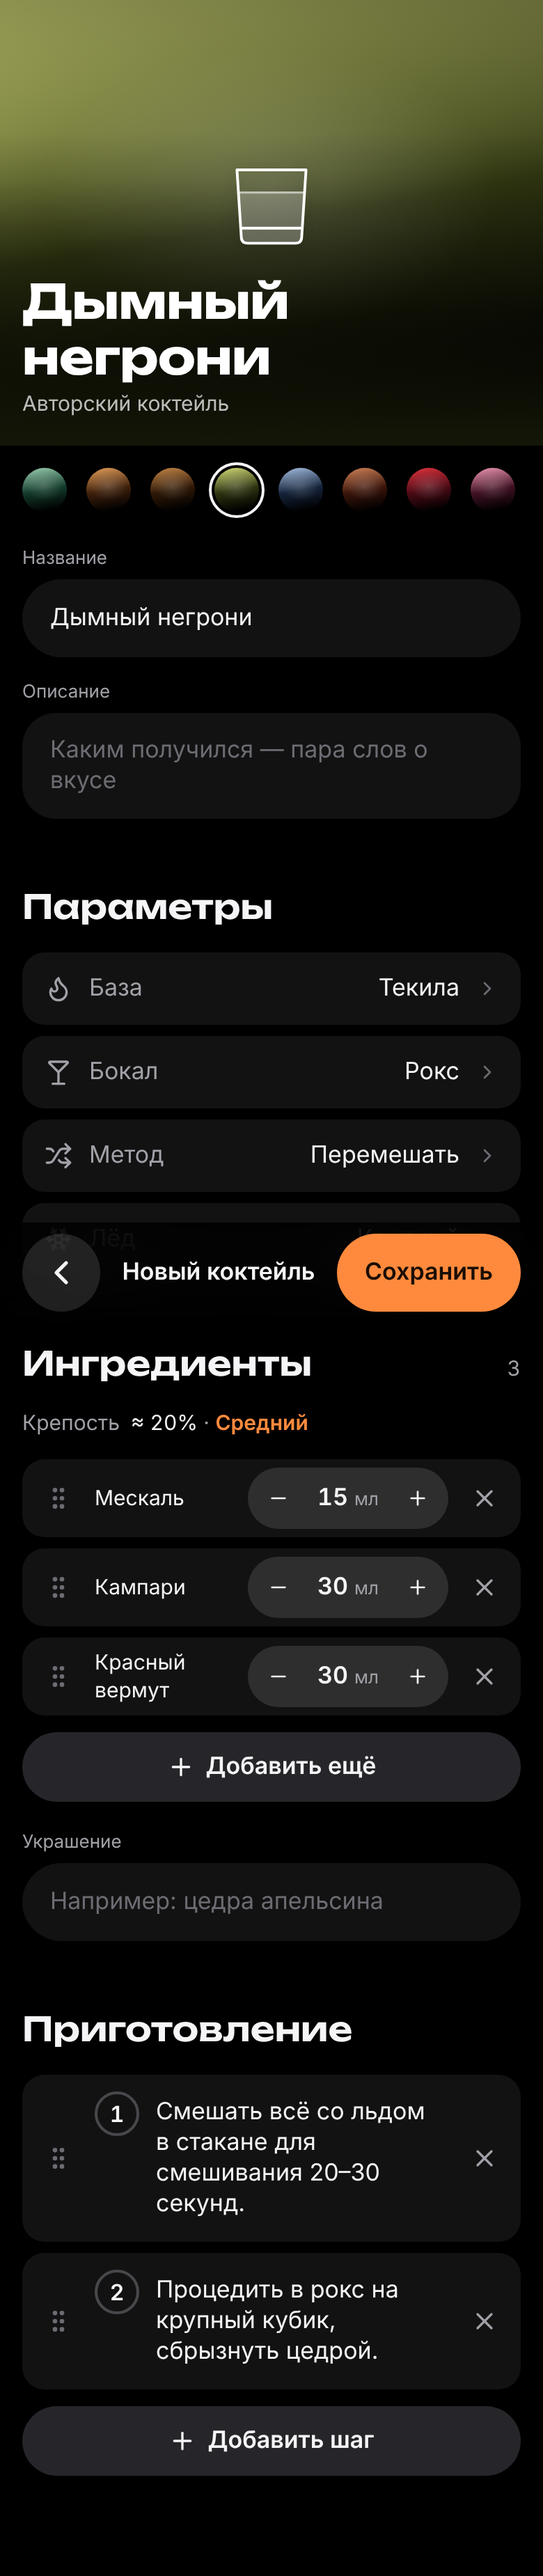
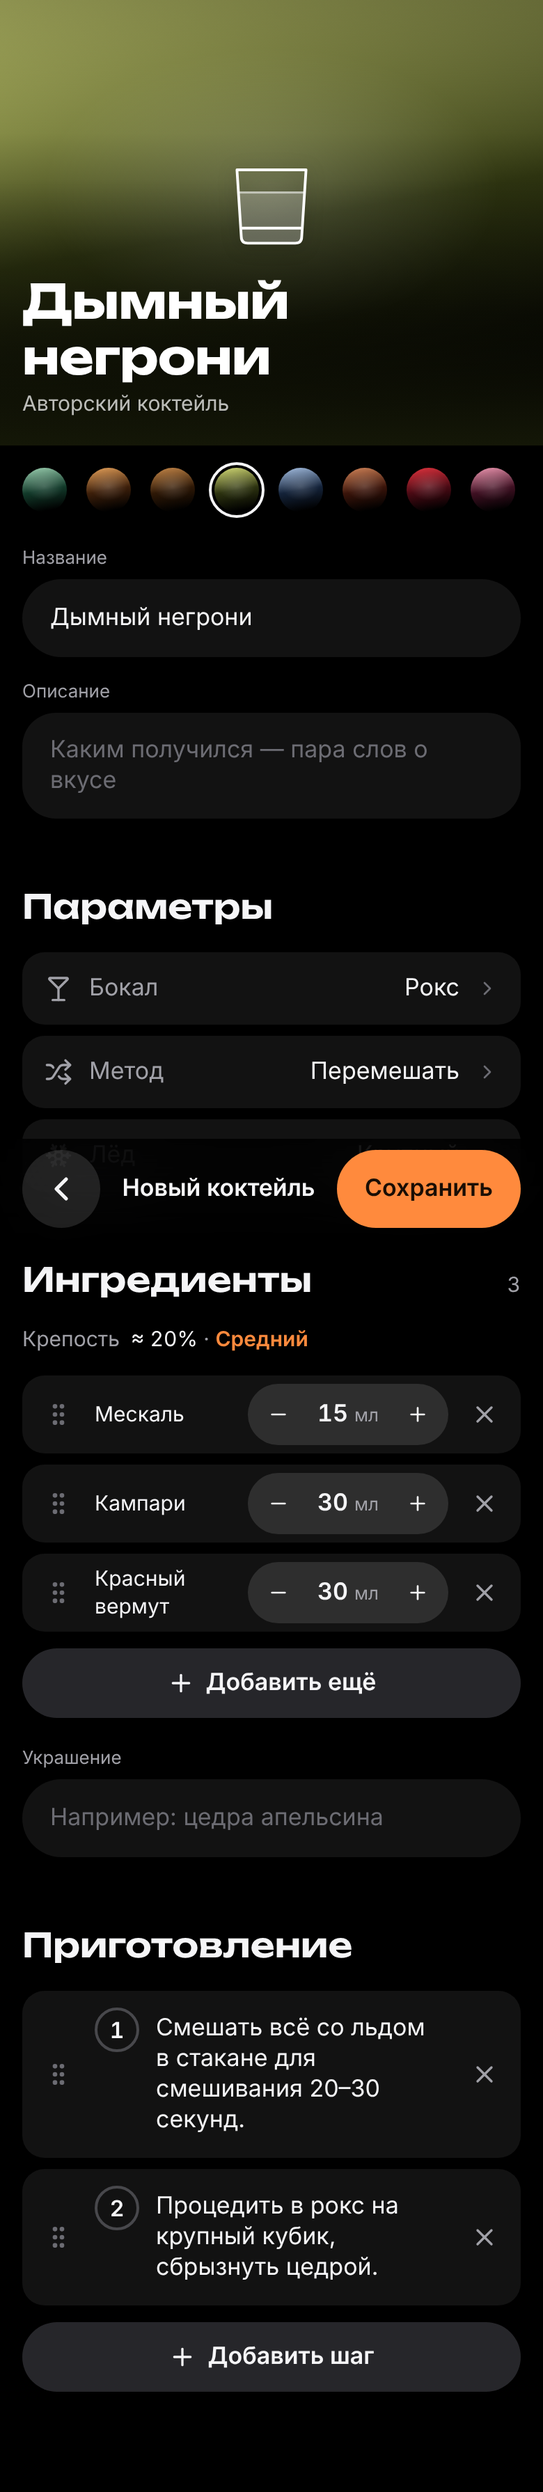
Редактор: база не выбирается — считается по составу
Claude-Session: https://claude.ai/code/session_01CTSLijoM8Di1TL7d1o52Nz

diff --git a/src/pages/CocktailEditorPage.tsx b/src/pages/CocktailEditorPage.tsx
@@ -16,10 +16,9 @@ import { IngredientPickSheet } from '../components/IngredientPickSheet';
 import { NotFoundPage } from './NotFoundPage';
 import { scaleIngredient } from '../lib/cocktails';
 
-type Param = 'base' | 'glass' | 'method' | 'ice';
+type Param = 'glass' | 'method' | 'ice';
 
 const OPTIONS: Record<Param, { title: string; items: { id: string; label: string }[] }> = {
-  base: { title: 'База', items: BASES },
   glass: { title: 'Бокал', items: GLASSES },
   method: { title: 'Метод', items: METHODS.map((id) => ({ id, label: methodLabel(id) })) },
   ice: { title: 'Лёд', items: ICES.map((id) => ({ id, label: iceLabel(id) })) },
@@ -46,13 +45,13 @@ export function CocktailEditorPage() {
 
   const initial = useMemo(() => (editing?.custom ? toDraft(editing) : EMPTY_DRAFT), [editing]);
   const [d, setD] = useState<Draft>(initial);
-  // база и обложка следуют за составом, пока их не выбрали вручную
-  const [manual, setManual] = useState({ base: !!editing, cover: !!editing });
+  // база всегда по составу; обложка следует за ней, пока цвет не выбрали вручную
+  const [manualCover, setManualCover] = useState(!!editing);
   const set = (patch: Partial<Draft>) =>
     setD((x) => {
       const next = { ...x, ...patch };
-      if (patch.ingredients && !manual.base) next.base = baseOf(patch.ingredients) ?? next.base;
-      if (!manual.cover) next.cover = coverFor(next.base);
+      if (patch.ingredients) next.base = baseOf(patch.ingredients) ?? next.base;
+      if (!manualCover) next.cover = coverFor(next.base);
       return next;
     });
   const dirty = JSON.stringify(d) !== JSON.stringify(initial);
@@ -99,16 +98,13 @@ export function CocktailEditorPage() {
   const setAmount = (index: number, v: number) =>
     set({ ingredients: d.ingredients.map((i, k) => (k !== index ? i : i.amountMl !== undefined ? { ...i, amountMl: v } : { ...i, amount: v })) });
   const pick = (param: Param, id: string) => {
-    if (param === 'base') {
-      setManual((m) => ({ ...m, base: true }));
-      set({ base: id as Base });
-    } else if (param === 'glass') set({ glass: id as Glass });
+    if (param === 'glass') set({ glass: id as Glass });
     else if (param === 'method') set({ method: id as Method });
     else set({ ice: id as Ice });
     closeSheet();
   };
   const param = (Object.keys(OPTIONS) as Param[]).find((p) => sheet === `pick-${p}`);
-  const value: Record<Param, string> = { base: BASES.find((b) => b.id === d.base)!.label, glass: glassLabel(d.glass), method: methodLabel(d.method), ice: iceLabel(d.ice) };
+  const value: Record<Param, string> = { glass: glassLabel(d.glass), method: methodLabel(d.method), ice: iceLabel(d.ice) };
 
   return (
     <main className="min-h-svh bg-bg pb-safe">
@@ -126,7 +122,7 @@ export function CocktailEditorPage() {
       <CocktailHero cocktail={preview} titleRef={titleRef} height="preview" />
 
       <div className="mt-4 px-4">
-        <ColorDots items={COVERS} value={d.cover} onChange={(cover) => (setManual((m) => ({ ...m, cover: true })), setD((x) => ({ ...x, cover })))} />
+        <ColorDots items={COVERS} value={d.cover} onChange={(cover) => (setManualCover(true), setD((x) => ({ ...x, cover })))} />
       </div>
 
       <div className="mt-6 flex flex-col gap-4 px-4">
@@ -136,7 +132,6 @@ export function CocktailEditorPage() {
 
       <SectionHeader size="l" title="Параметры" className="mt-10" />
       <div className="mt-3 flex flex-col gap-2 px-4">
-        <ParamPickRow icon={Flame} label="База" value={value.base} onClick={() => openSheet('pick-base')} />
         <ParamPickRow icon={Martini} label="Бокал" value={value.glass} onClick={() => openSheet('pick-glass')} />
         <ParamPickRow icon={Shuffle} label="Метод" value={value.method} onClick={() => openSheet('pick-method')} />
         <ParamPickRow icon={Snowflake} label="Лёд" value={value.ice} onClick={() => openSheet('pick-ice')} />

diff --git a/src/lib/custom.test.ts b/src/lib/custom.test.ts
@@ -1,7 +1,7 @@
 import { describe, expect, it } from 'vitest';
 import data from '../data/cocktails.json';
 import type { Cocktail } from '../types/cocktail';
-import { computeAbv, draftErrors, EMPTY_DRAFT, strengthOf, toCocktail } from './custom';
+import { baseOf, computeAbv, draftErrors, EMPTY_DRAFT, lineFor, strengthOf, toCocktail } from './custom';
 
 const base = data as Cocktail[];
 
@@ -47,5 +47,22 @@ describe('черновик', () => {
   it('свой ингредиент не пройдёт', () => {
     const d = { ...EMPTY_DRAFT, name: 'X', steps: ['a'], ingredients: [{ ref: 'elderflower-homemade', name: 'Бузина', amountMl: 30, category: 'syrup' as const }, { ref: 'gin', name: '', amountMl: 30, category: 'spirit' as const }] };
     expect(draftErrors(d)).toContain('Ингредиенты — только из справочника');
+  });
+});
+
+describe('база по составу', () => {
+  // негрони в каталоге — «Аперитив» (редакторский выбор: джин, кампари и вермут поровну); правило даёт «Джин»
+  it('совпадает с base у базовых рецептов (кроме негрони)', () => {
+    const wrong = base.filter((c) => c.id !== 'negroni' && baseOf(c.ingredients) !== c.base).map((c) => `${c.id}: ${baseOf(c.ingredients)} ≠ ${c.base}`);
+    expect(wrong).toEqual([]);
+  });
+  it('поровну крепких (Лонг-Айленд) — тот, что выше в списке', () => {
+    const li = ['vodka', 'gin', 'white-rum', 'tequila'].map((ref) => ({ ...lineFor(ref), amountMl: 15 }));
+    expect(baseOf(li)).toBe('vodka');
+    expect(baseOf([li[2]!, ...li])).toBe('rum');
+  });
+  it('без крепкого — аперитив, без алкоголя — безалкогольный', () => {
+    expect(baseOf([lineFor('campari'), lineFor('soda')])).toBe('aperitif');
+    expect(baseOf([lineFor('lime'), lineFor('soda')])).toBe('non-alcoholic');
   });
 });

diff --git a/src/lib/custom.ts b/src/lib/custom.ts
@@ -110,7 +110,10 @@ export function lineFor(ref: string): Ingredient {
 /** Шаг степпера: мл — 5, штучное — 1 */
 export const stepOf = (i: Ingredient) => (i.amountMl !== undefined ? 5 : 1);
 
-/** База по составу: крепкий с наибольшим объёмом; без крепкого — аперитив, без алкоголя — безалкогольный */
+/**
+ * База по составу (её не выбирают — она нужна только фильтру «База»): крепкий с наибольшим объёмом;
+ * поровну (Лонг-Айленд) — тот, что выше в списке; без крепкого — аперитив, без алкоголя — безалкогольный.
+ */
 const SPIRIT_BASE: Record<string, Base> = {
   gin: 'gin', 'white-rum': 'rum', 'dark-rum': 'rum', bourbon: 'whiskey', 'rye-whiskey': 'whiskey', scotch: 'whiskey',
   'peated-scotch': 'whiskey', 'irish-whiskey': 'whiskey', tequila: 'tequila', mezcal: 'tequila', vodka: 'vodka',
@@ -185,7 +188,7 @@ export function toCocktail(d: Draft, now = Date.now()): Cocktail {
     difficulty: 1,
     timeMin: 2 + steps.length,
     tags: [],
-    base: d.base,
+    base: baseOf(ingredients) ?? d.base,
     cover: d.cover,
     custom: true,
     createdAt: now,

diff --git a/plan.md b/plan.md
@@ -123,7 +123,7 @@
 1. Вход — «+» в шапке каталога (коктейль — часть каталога; «Мой бар» — про бутылки дома). Владелец оставил на выбор.
 2. Крепость — считаем по пропорциям и типу алкоголя (`abv` в словаре + разбавление по методу), калибруем на базе.
 3. «Авторский» — в нижней строке карточки, рядом с «всё есть»; плашка крепости остаётся.
-4. База и обложка следуют за составом (крепкий с наибольшим объёмом; мескаль → текила), пока их не выбрали вручную; количество нового ингредиента — как его чаще льют в базовых рецептах.
+4. Базу не выбирают — она считается по составу (крепкий с наибольшим объёмом, поровну — тот, что выше в списке; мескаль → текила) и нужна только фильтру «База»; цвет обложки следует за ней, пока его не выбрали вручную; количество нового ингредиента — как его чаще льют в базовых рецептах.
 5. В шторке выбора есть и «всегда есть» (сахар, вода) — их тоже нельзя добавить в бар, но рецепты без них не собрать.
 
 ## Backlog
